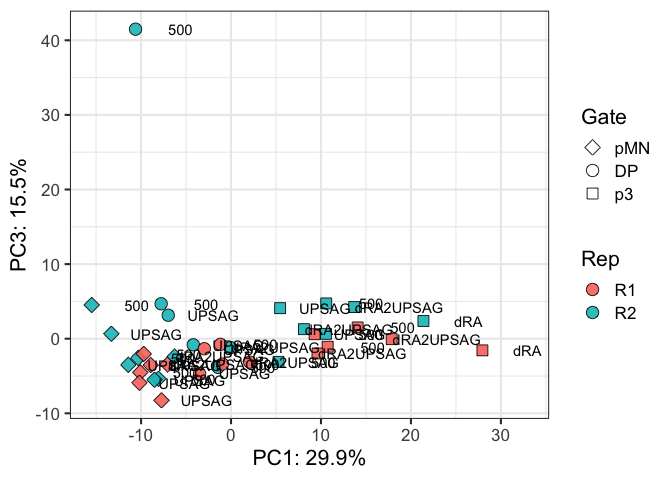
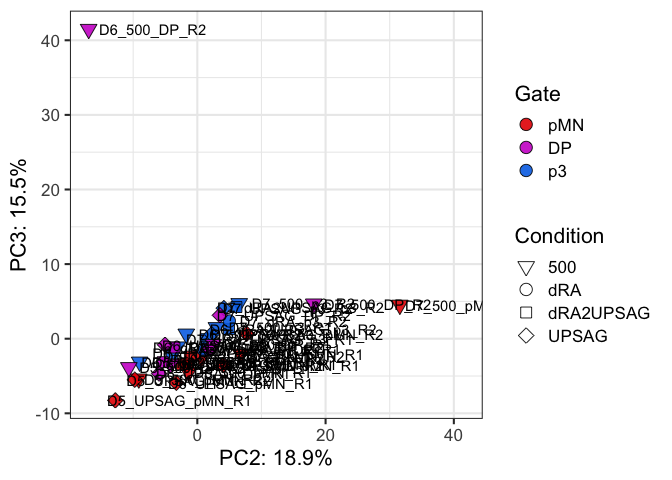
updated PCA

diff --git a/r_files/DPpilotRNA_1_corrected_PCA.md b/r_files/DPpilotRNA_1_corrected_PCA.md
@@ -732,6 +732,20 @@ ggplot(vsd_pca_plot, aes(x=PC2,y=PC3,fill=Gate,shape=Condition)) +
 ![](DPpilotRNA_1_corrected_PCA_files/figure-gfm/unnamed-chunk-17-4.png)<!-- -->
 
 ``` r
+ggplot(vsd_pca_plot, aes(x=PC2,y=PC3,fill=Gate,shape=Condition,label=Sample)) +
+  scale_fill_manual(values = color_gates) +
+  geom_point(size=4, alpha=0.9) +
+  geom_text(nudge_x = 10) +
+  guides(fill = guide_legend(override.aes=list(shape=21))) +
+  scale_shape_manual(values = shapes5_manual) +
+  labs(x=paste0("PC2: ",round(var_explained[2]*100,1),"%"),
+       y=paste0("PC3: ",round(var_explained[3]*100,1),"%")) +
+  theme_bw(base_size=16)
+```
+
+![](DPpilotRNA_1_corrected_PCA_files/figure-gfm/unnamed-chunk-17-5.png)<!-- -->
+
+``` r
 ggplot(vsd_pca_plot, aes(x=PC1,y=PC3,fill=Rep,shape=Gate, label=Condition)) +
   geom_point(size=4, alpha=0.9) +
   geom_text(nudge_x = 5) +
@@ -742,7 +756,7 @@ ggplot(vsd_pca_plot, aes(x=PC1,y=PC3,fill=Rep,shape=Gate, label=Condition)) +
   theme_bw(base_size=16)
 ```
 
-![](DPpilotRNA_1_corrected_PCA_files/figure-gfm/unnamed-chunk-17-5.png)<!-- -->
+![](DPpilotRNA_1_corrected_PCA_files/figure-gfm/unnamed-chunk-17-6.png)<!-- -->
 
 ``` r
 ggplot(vsd_pca_plot, aes(x=PC4,y=PC2,fill=Condition,shape=Day)) +
@@ -755,7 +769,7 @@ ggplot(vsd_pca_plot, aes(x=PC4,y=PC2,fill=Condition,shape=Day)) +
   theme_bw(base_size=16)
 ```
 
-![](DPpilotRNA_1_corrected_PCA_files/figure-gfm/unnamed-chunk-17-6.png)<!-- -->
+![](DPpilotRNA_1_corrected_PCA_files/figure-gfm/unnamed-chunk-17-7.png)<!-- -->
 
 ``` r
 ggplot(vsd_pca_plot, aes(x=PC4,y=PC5,fill=DayCondition,shape=Gate, label=Gate)) +
@@ -768,7 +782,7 @@ ggplot(vsd_pca_plot, aes(x=PC4,y=PC5,fill=DayCondition,shape=Gate, label=Gate)) 
   theme_bw(base_size=16)
 ```
 
-![](DPpilotRNA_1_corrected_PCA_files/figure-gfm/unnamed-chunk-17-7.png)<!-- -->
+![](DPpilotRNA_1_corrected_PCA_files/figure-gfm/unnamed-chunk-17-8.png)<!-- -->
 
 ``` r
 sessionInfo()
